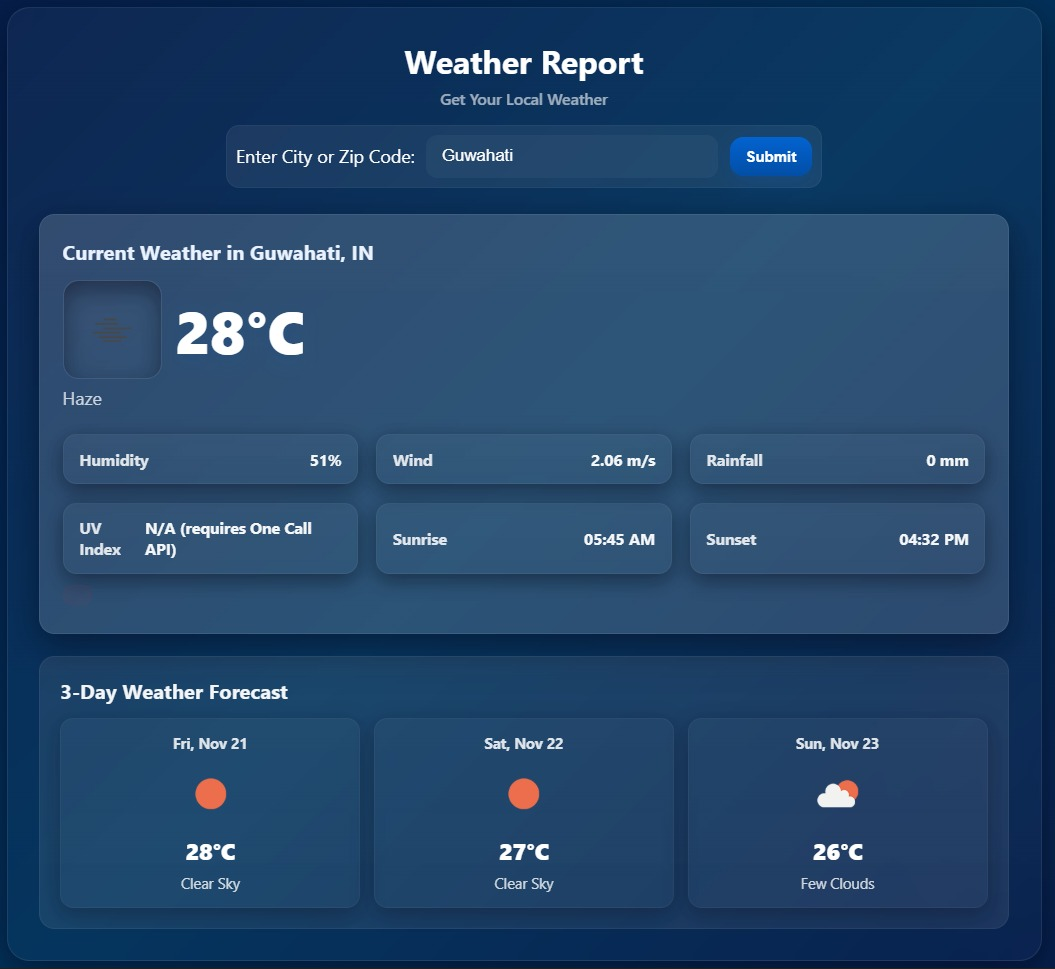
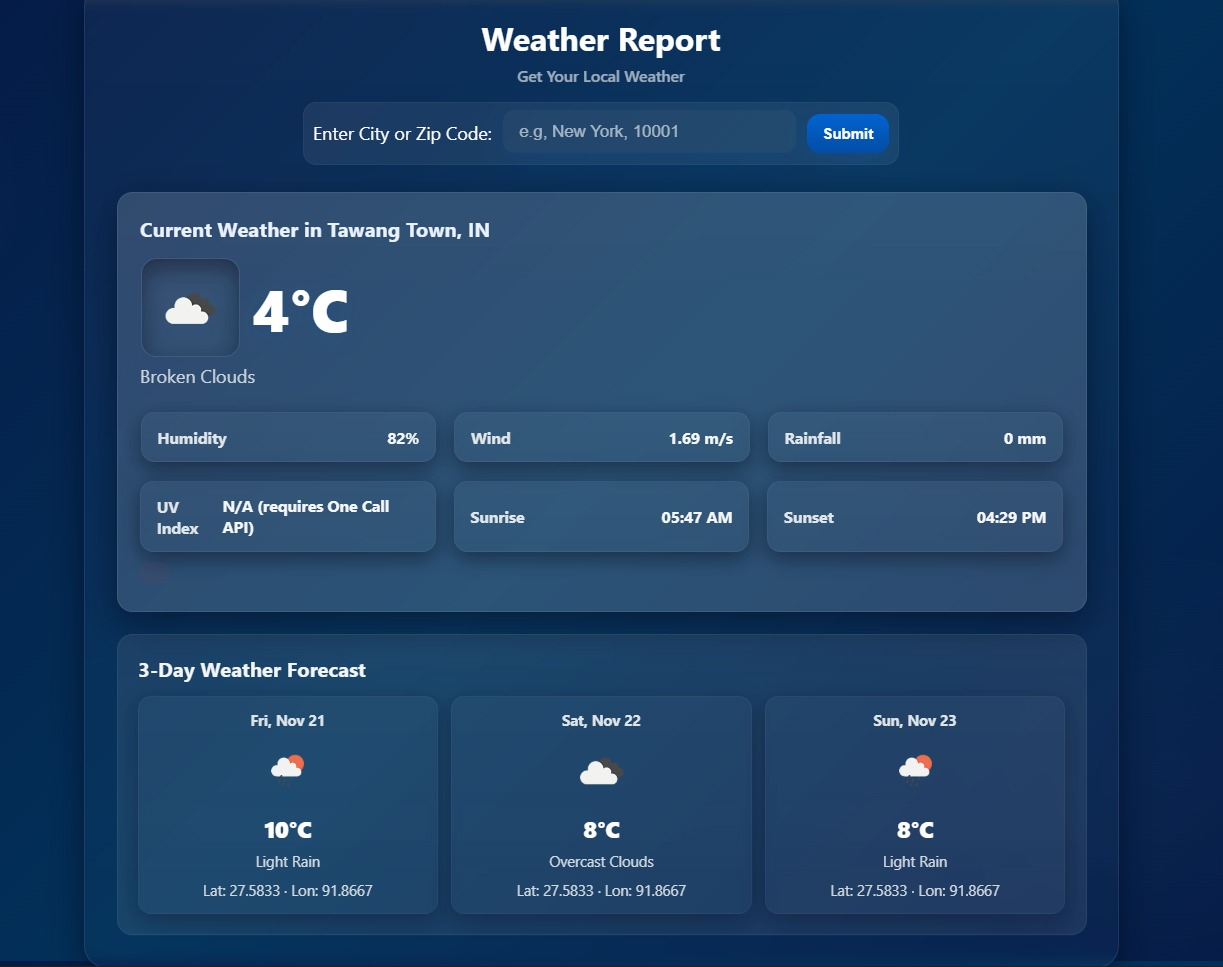
Updated JS file And Screenshot

diff --git a/script.js b/script.js
@@ -76,6 +76,7 @@ async function getForecastFallback(lat, lon) {
 
       const card = document.createElement("div");
       card.className = "day-card";
+      // <<< Minimal change: added Lat/Lon display for fallback cards
       card.innerHTML = `
         <div class="day-date">${weekday}, ${date}</div>
         <div class="day-weather-icon">
@@ -83,6 +84,9 @@ async function getForecastFallback(lat, lon) {
         </div>
         <div class="day-temperature">${temp}&deg;C</div>
         <div class="day-description">${desc}</div>
+        <div style="margin-top:8px;font-size:13px;color:rgba(255,255,255,0.8);">
+          Lat: ${lat} · Lon: ${lon}
+        </div>
       `;
       container.appendChild(card);
     });
@@ -133,6 +137,7 @@ async function getForecast(lat, lon) {
 
       const card = document.createElement("div");
       card.className = "day-card";
+      // <<< Minimal change: added Lat/Lon display for One Call cards
       card.innerHTML = `
         <div class="day-date">${weekday}, ${date}</div>
         <div class="day-weather-icon">
@@ -140,6 +145,9 @@ async function getForecast(lat, lon) {
         </div>
         <div class="day-temperature">${tempDay}&deg;C</div>
         <div class="day-description">${desc}</div>
+        <div style="margin-top:8px;font-size:13px;color:rgba(255,255,255,0.8);">
+          Lat: ${lat} · Lon: ${lon}
+        </div>
       `;
       container.appendChild(card);
     });
@@ -246,15 +254,58 @@ if (form) {
   });
 }
 
-// Load a default city when the page loads (lab sample: Kochi)
+// Load a default city when the page loads (lab sample: Guwahati)
 document.addEventListener("DOMContentLoaded", () => {
   const defaultCity = "Guwahati";
   if (placeInput) placeInput.value = defaultCity;
   getWeather(defaultCity);
+
+  /* =========================
+     Lab 9: Simulated Geolocation + render simulated forecast
+     Adds latitude & longitude into generated forecast objects
+     ========================= */
+
+  // 1) simulated user location (Lab 9 requires simulating geolocation)
+  function getUserLocation() {
+    // Example: New York coordinates; replace if your lab requires another city
+    return { latitude: 40.7128, longitude: -74.0060 };
+  }
+
+  // 2) use the updated generator that accepts lat/lon (we kept generator below compatible)
+  const simulatedLocation = getUserLocation();
+  const simulatedCity = "Guwahati";
+
+  // 3) generate forecast with coords and render it (so teacher can see lat/lon)
+  const simForecast = generateWeatherForecast(simulatedCity, simulatedLocation.latitude, simulatedLocation.longitude);
+  console.log("Simulated forecast with geolocation:", simForecast);
+
+  const container = document.querySelector(".forecast-days");
+  if (container) {
+    container.innerHTML = ""; // clear previous
+    simForecast.forEach(day => {
+      const card = document.createElement("div");
+      card.className = "day-card";
+      card.innerHTML = `
+        <div class="day-date">${day.date}</div>
+        <div class="day-weather-icon">
+          <div style="width:56px;height:56px;border-radius:8px;display:flex;align-items:center;justify-content:center;background:rgba(255,255,255,0.03);color:#fff;font-weight:700;">
+            ${day.condition.split(" ").map(w=>w[0]).join("")}
+          </div>
+        </div>
+        <div class="day-temperature">${day.temperature}&deg;C</div>
+        <div class="day-description">${day.condition}</div>
+        <div style="margin-top:8px;font-size:13px;color:rgba(255,255,255,0.8);">
+          Lat: ${day.latitude} · Lon: ${day.longitude} · Humidity: ${day.humidity}
+        </div>
+      `;
+      container.appendChild(card);
+    });
+  }
 });
+
 /* =========================
    Lab 8: Simulating the 3-Day Forecast
-   Paste this block JUST BEFORE the DOMContentLoaded listener
+   (updated generator to accept lat/lon)
    ========================= */
 
 function randomBetween(min, max, decimals = 0) {
@@ -263,11 +314,11 @@ function randomBetween(min, max, decimals = 0) {
 }
 
 /**
- * generateWeatherForecast(city)
+ * generateWeatherForecast(city, latitude, longitude)
  * Returns an array of 3 forecast objects for the next 3 days.
- * Each object: { city, date, temperature, condition, humidity, wind, rainfall, uvIndex }
+ * Each object: { city, date, temperature, condition, humidity, wind, rainfall, uvIndex, latitude, longitude }
  */
-function generateWeatherForecast(city = "") {
+function generateWeatherForecast(city = "", latitude = null, longitude = null) {
   const weatherConditions = [
     "Sunny", "Cloudy", "Partly Cloudy", "Rainy", "Thunderstorm", "Foggy"
   ];
@@ -309,7 +360,9 @@ function generateWeatherForecast(city = "") {
       humidity: `${humidity}%`,
       wind: `${wind} m/s`,
       rainfall: `${rainfall} mm`,
-      uvIndex: uvIndex
+      uvIndex: uvIndex,
+      latitude: latitude,
+      longitude: longitude
     });
   }
 
@@ -317,12 +370,12 @@ function generateWeatherForecast(city = "") {
 }
 
 /**
- * simulateAndRender(city)
+ * simulateAndRender(city, latitude, longitude)
  * - Calls generateWeatherForecast() and renders into .forecast-days (if present)
  * - Also returns the generated array (useful for console / practical file)
  */
-function simulateAndRender(city = "") {
-  const data = generateWeatherForecast(city);
+function simulateAndRender(city = "", latitude = null, longitude = null) {
+  const data = generateWeatherForecast(city, latitude, longitude);
   console.log("Simulated 3-day forecast for", city, data);
 
   const container = document.querySelector(".forecast-days");
@@ -343,7 +396,7 @@ function simulateAndRender(city = "") {
       <div class="day-temperature">${day.temperature}&deg;C</div>
       <div class="day-description">${day.condition}</div>
       <div style="margin-top:8px;font-size:13px;color:rgba(255,255,255,0.8);">
-        Humidity: ${day.humidity} · Wind: ${day.wind} · Rain: ${day.rainfall} · UV: ${day.uvIndex}
+        Lat: ${day.latitude} · Lon: ${day.longitude} · Humidity: ${day.humidity} · Wind: ${day.wind} · UV: ${day.uvIndex}
       </div>
     `;
     container.appendChild(card);
